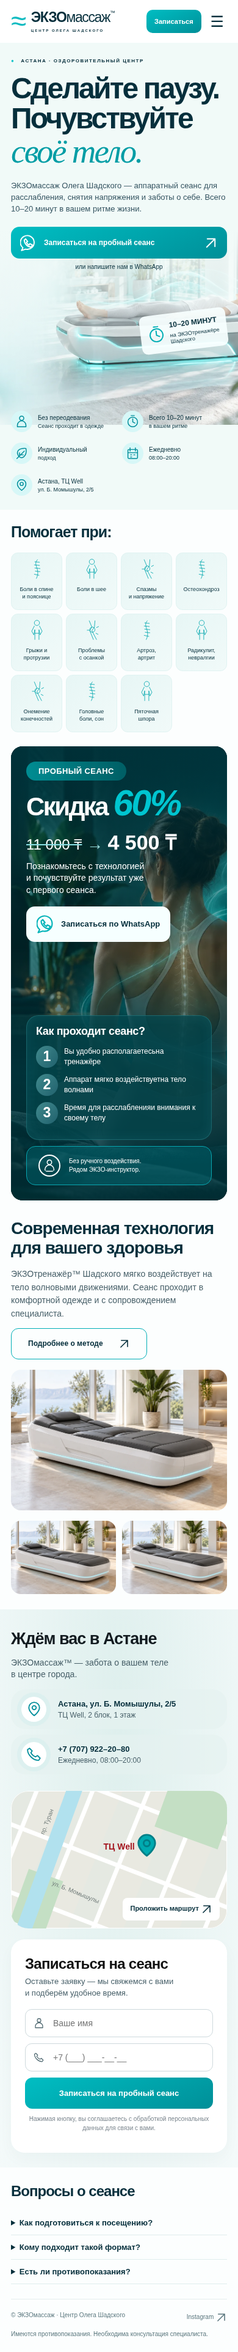
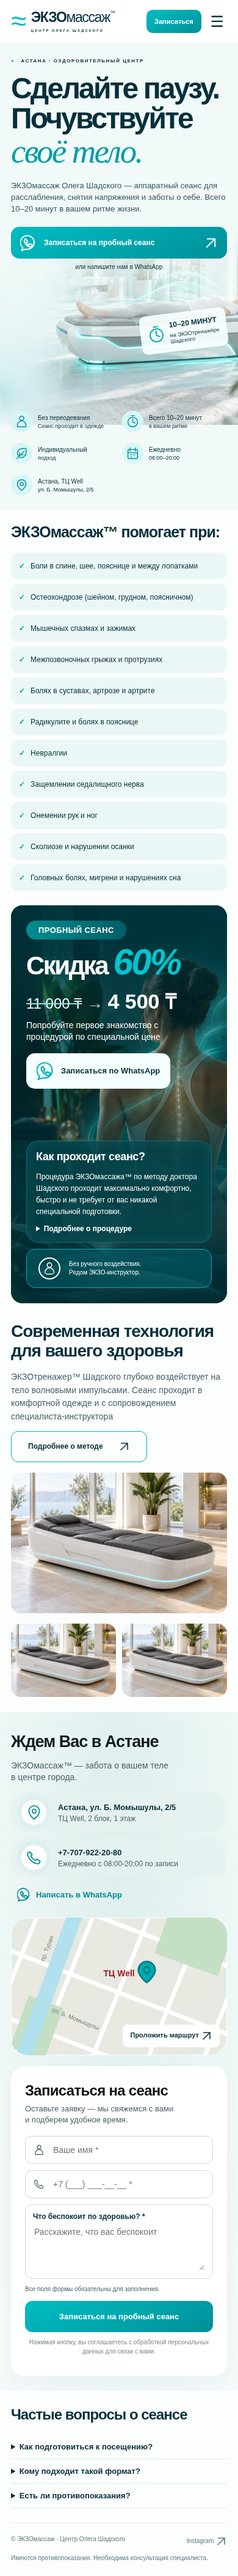
Update Ekzomassage copy and require health details for booking

diff --git a/ekzomassage/index.html b/ekzomassage/index.html
@@ -1,5 +1,5 @@
 <!doctype html>
-<html lang="ru"><head><meta charset="utf-8"><meta name="viewport" content="width=device-width,initial-scale=1"><title>ЭКЗОмассаж — сделайте паузу, почувствуйте своё тело</title><meta name="description" content="ЭКЗОмассаж Олега Шадского в Астане. Пробный сеанс — 4 500 ₸. ТЦ Well, Б. Момышулы, 2/5. Запишитесь на удобное время."><meta name="theme-color" content="#00aeb5"><link rel="stylesheet" href="styles.css?v=20261020"></head><body>
+<html lang="ru"><head><meta charset="utf-8"><meta name="viewport" content="width=device-width,initial-scale=1"><title>ЭКЗОмассаж — сделайте паузу, почувствуйте своё тело</title><meta name="description" content="ЭКЗОмассаж Олега Шадского в Астане. Пробный сеанс — 4 500 ₸. ТЦ Well, Б. Момышулы, 2/5. Запишитесь на удобное время."><meta name="theme-color" content="#00aeb5"><link rel="stylesheet" href="styles.css?v=20261021"></head><body>
 <svg class="svg-defs" xmlns="http://www.w3.org/2000/svg"><defs>
 <symbol id="i-arrow" viewBox="0 0 24 24"><path d="M5 19 19 5M6 5h13v13"/></symbol>
 <symbol id="i-phone" viewBox="0 0 24 24"><path d="m5 3 4 4-2 3c2 3 4 5 7 6l3-2 4 4-2 3C11 22 2 13 2 5Z"/></symbol>
@@ -13,25 +13,13 @@
 <symbol id="i-body" viewBox="0 0 32 40"><circle cx="16" cy="6" r="5"/><path d="M11 12 6 22l4 7 2-10v19m9-26 5 10-4 7-2-10v19M12 26h8"/></symbol>
 <symbol id="i-joint" viewBox="0 0 32 40"><path d="m11 2 5 12-4 7 7 17M22 2l-1 12-5 7 9 17M7 20h4m14-5 4-2m-5 13 4 2"/><circle cx="17" cy="19" r="5"/></symbol>
 </defs></svg>
-<header class="header"><div class="header-inner"><a class="brand" href="#" aria-label="ЭКЗОмассаж — главная"><span class="brand-symbol">≈</span><span><b>ЭКЗО</b>массаж<sup>™</sup><small>ЦЕНТР ОЛЕГА ШАДСКОГО</small></span></a><nav id="navigation" aria-label="Основная навигация"><a href="#about">О методе</a><a href="#indications">Показания</a><a href="#prices">Стоимость</a><a href="#questions">Вопросы</a><a href="#contacts">Контакты</a></nav><a class="header-phone" href="https://wa.me/77079222080" target="_blank" rel="noopener"><svg><use href="#i-wa"/></svg><span><b>+7 (707) 922–20–80</b><small>Написать в WhatsApp</small></span></a><a class="button header-book" href="#booking">Записаться</a><button class="menu" aria-label="Открыть меню" aria-controls="navigation" aria-expanded="false">☰</button></div></header>
+<header class="header"><div class="header-inner"><a class="brand" href="#" aria-label="ЭКЗОмассаж — главная"><span class="brand-symbol">≈</span><span><b>ЭКЗО</b>массаж<sup>™</sup><small>ЦЕНТР ОЛЕГА ШАДСКОГО</small></span></a><nav id="navigation" aria-label="Основная навигация"><a href="#about">О методе</a><a href="#indications">Показания</a><a href="#prices">Стоимость</a><a href="#questions">Вопросы</a><a href="#contacts">Контакты</a></nav><a class="header-phone" href="tel:+77079222080"><svg><use href="#i-wa"/></svg><span><b>+7-707-922-20-80</b><small>Позвонить в центр</small></span></a><a class="button header-book" href="#booking">Записаться</a><button class="menu" aria-label="Открыть меню" aria-controls="navigation" aria-expanded="false">☰</button></div></header>
 <main>
 <section class="hero"><div class="container hero-inner"><div class="hero-copy"><p class="eyebrow">АСТАНА · ОЗДОРОВИТЕЛЬНЫЙ ЦЕНТР</p><h1>Сделайте паузу.<br>Почувствуйте<br><em>своё тело.</em></h1><p class="hero-description">ЭКЗОмассаж Олега Шадского — аппаратный сеанс<br class="desktop"> для расслабления, снятия напряжения и заботы о себе.<br class="desktop"> Всего 10–20 минут в вашем ритме жизни.</p><a class="button hero-button" href="https://wa.me/77079222080?text=Здравствуйте!%20Хочу%20записаться%20на%20пробный%20сеанс." target="_blank" rel="noopener"><svg><use href="#i-wa"/></svg>Записаться на пробный сеанс <span><svg class="arrow-icon" aria-hidden="true"><use href="#i-arrow"/></svg></span></a><p class="button-note">или напишите нам в WhatsApp</p></div><div class="hero-badge">ТЕХНОЛОГИЯ<br>БЕРЕЖНОГО<br>ПОДХОДА</div><div class="time-badge"><svg><use href="#i-clock"/></svg><div><b>10–20 МИНУТ</b><span>на ЭКЗОтренажёре<br>Шадского</span></div></div>
 <div class="benefits"><div><i><svg><use href="#i-person"/></svg></i><span>Без переодевания<small>Сеанс проходит в одежде</small></span></div><div><i><svg><use href="#i-clock"/></svg></i><span>Всего 10–20 минут<small>в вашем ритме</small></span></div><div><i><svg><use href="#i-leaf"/></svg></i><span>Индивидуальный<small>подход</small></span></div><div><i><svg><use href="#i-calendar"/></svg></i><span>Ежедневно<small>08:00–20:00</small></span></div><div><i><svg><use href="#i-pin"/></svg></i><span>Астана, ТЦ Well<small>ул. Б. Момышулы, 2/5</small></span></div></div></div></section>
-<section class="container indications" id="indications"><h2>Помогает при:</h2><div class="indication-grid">
-<div class="indication"><svg aria-hidden="true"><use href="#i-spine"/></svg><span>Боли в спине<br>и пояснице</span></div>
-<div class="indication"><svg aria-hidden="true"><use href="#i-body"/></svg><span>Боли в шее</span></div>
-<div class="indication"><svg aria-hidden="true"><use href="#i-joint"/></svg><span>Спазмы<br>и напряжение</span></div>
-<div class="indication"><svg aria-hidden="true"><use href="#i-spine"/></svg><span>Остеохондроз</span></div>
-<div class="indication"><svg aria-hidden="true"><use href="#i-body"/></svg><span>Грыжи и<br>протрузии</span></div>
-<div class="indication"><svg aria-hidden="true"><use href="#i-joint"/></svg><span>Проблемы<br>с осанкой</span></div>
-<div class="indication"><svg aria-hidden="true"><use href="#i-spine"/></svg><span>Артроз,<br>артрит</span></div>
-<div class="indication"><svg aria-hidden="true"><use href="#i-body"/></svg><span>Радикулит,<br>невралгии</span></div>
-<div class="indication"><svg aria-hidden="true"><use href="#i-joint"/></svg><span>Онемение<br>конечностей</span></div>
-<div class="indication"><svg aria-hidden="true"><use href="#i-spine"/></svg><span>Головные<br>боли, сон</span></div>
-<div class="indication"><svg aria-hidden="true"><use href="#i-body"/></svg><span>Пяточная<br>шпора</span></div>
-</div></section>
-<section class="container offer" id="prices"><div class="offer-copy"><span class="pill">ПРОБНЫЙ СЕАНС</span><h2>Скидка <em>60%</em></h2><p class="price"><del>11 000 ₸</del> <span>→</span> <b>4 500 ₸</b></p><p>Познакомьтесь с технологией<br>и почувствуйте результат уже<br>с первого сеанса.</p><a class="button light" href="https://wa.me/77079222080?text=Здравствуйте!%20Хочу%20пробный%20сеанс%20за%204500%20тенге." target="_blank" rel="noopener"><svg><use href="#i-wa"/></svg>Записаться по WhatsApp</a></div><div class="offer-person" aria-hidden="true"></div><div class="offer-process"><div class="process-card"><h3>Как проходит сеанс?</h3><ol><li>Вы удобно располагаетесь<br>на тренажёре</li><li>Аппарат мягко воздействует<br>на тело волнами</li><li>Время для расслабления<br>и внимания к своему телу</li></ol></div><p class="process-note"><svg><use href="#i-person"/></svg><span>Без ручного воздействия.<br>Рядом ЭКЗО-инструктор.</span></p></div></section>
-<section class="container technology" id="about"><div><h2>Современная технология<br>для вашего здоровья</h2><p>ЭКЗОтренажёр™ Шадского мягко воздействует на тело волновыми движениями. Сеанс проходит в комфортной одежде и с сопровождением специалиста.</p><a class="button outline" href="#questions">Подробнее о методе <span><svg class="arrow-icon" aria-hidden="true"><use href="#i-arrow"/></svg></span></a></div><div class="tech-main"><img src="images/device.webp" alt="Иллюстрация аппарата для сеанса ЭКЗОмассажа" loading="lazy"></div><div class="tech-details"><img src="images/device.webp" alt="Детали платформы аппарата" loading="lazy"><img src="images/device.webp" alt="Оборудование оздоровительного центра" loading="lazy"></div></section>
-<section class="contacts" id="contacts"><div class="container contacts-grid"><div class="contact-info"><h2>Ждём вас в Астане</h2><p>ЭКЗОмассаж™ — забота о вашем теле<br>в центре города.</p><a class="contact-row" href="https://www.google.com/maps/search/?api=1&query=Астана+Бауыржан+Момышулы+2%2F5+ТЦ+Well" target="_blank" rel="noopener"><i><svg><use href="#i-pin"/></svg></i><span><b>Астана, ул. Б. Момышулы, 2/5</b><small>ТЦ Well, 2 блок, 1 этаж</small></span></a><a class="contact-row" href="tel:+77079222080"><i><svg><use href="#i-phone"/></svg></i><span><b>+7 (707) 922–20–80</b><small>Ежедневно, 08:00–20:00</small></span></a></div><a class="map" href="https://www.google.com/maps/search/?api=1&query=Астана+Бауыржан+Момышулы+2%2F5+ТЦ+Well" target="_blank" rel="noopener" aria-label="ТЦ Well: открыть маршрут на карте"><div class="map-park park-one"></div><div class="map-park park-two"></div><div class="map-river"></div><span class="street street-one">ул. Б. Момышулы</span><span class="street street-two">пр. Туран</span><span class="map-pin"><svg><use href="#i-pin"/></svg><b>ТЦ Well</b></span><span class="map-link">Проложить маршрут <svg class="arrow-icon" aria-hidden="true"><use href="#i-arrow"/></svg></span></a><form id="booking" class="booking"><h2>Записаться на сеанс</h2><p>Оставьте заявку — мы свяжемся с вами<br>и подберём удобное время.</p><label><span class="sr-only">Ваше имя</span><svg><use href="#i-person"/></svg><input name="name" autocomplete="name" placeholder="Ваше имя" maxlength="100" required></label><label><span class="sr-only">Телефон</span><svg><use href="#i-phone"/></svg><input name="phone" type="tel" autocomplete="tel" placeholder="+7 (___) ___-__-__" maxlength="24" required></label><button class="button" type="submit">Записаться на пробный сеанс</button><small>Нажимая кнопку, вы соглашаетесь с обработкой персональных данных для связи с вами.</small><p class="form-status" role="status"></p></form></div></section>
-<section class="container faq" id="questions"><h2>Вопросы о сеансе</h2><details><summary>Как подготовиться к посещению?</summary><p>Выберите комфортную одежду. Перед сеансом уберите телефон, часы, ключи, ремень и металлические аксессуары. Обсудите самочувствие со специалистом.</p></details><details><summary>Кому подходит такой формат?</summary><p>Возможность посещения определяется индивидуально. При боли и других жалобах сначала выясните их причину с врачом. ЭКЗОмассаж не заменяет диагностику и назначенное лечение.</p></details><details><summary>Есть ли противопоказания?</summary><p>Да. В том числе беременность, кардиостимулятор, острые инфекции и кровотечения. Сообщите специалисту о хронических заболеваниях, недавних операциях и текущем самочувствии до записи.</p></details></section>
-</main><footer class="container footer"><span>© ЭКЗОмассаж · Центр Олега Шадского</span><a href="https://www.instagram.com/ekzomassage.kz/" target="_blank" rel="noopener">Instagram <svg class="arrow-icon" aria-hidden="true"><use href="#i-arrow"/></svg></a><span>Имеются противопоказания. Необходима консультация специалиста.</span></footer><script src="app.js?v=20261020"></script></body></html>
+<section class="container indications" id="indications"><h2>ЭКЗОмассаж™ помогает при:</h2><ul class="indication-list"><li>Боли в спине, шее, пояснице и между лопатками</li><li>Остеохондрозе (шейном, грудном, поясничном)</li><li>Мышечных спазмах и зажимах</li><li>Межпозвоночных грыжах и протрузиях</li><li>Болях в суставах, артрозе и артрите</li><li>Радикулите и болях в пояснице</li><li>Невралгии</li><li>Защемлении седалищного нерва</li><li>Онемении рук и ног</li><li>Сколиозе и нарушении осанки</li><li>Головных болях, мигрени и нарушениях сна</li></ul></section>
+<section class="container offer" id="prices"><div class="offer-copy"><span class="pill">ПРОБНЫЙ СЕАНС</span><h2>Скидка <em>60%</em></h2><p class="price"><del>11 000 ₸</del> <span>→</span> <b>4 500 ₸</b></p><p>Попробуйте первое знакомство с процедурой по специальной цене</p><a class="button light" href="https://wa.me/77079222080?text=Здравствуйте!%20Хочу%20пробный%20сеанс%20за%204500%20тенге." target="_blank" rel="noopener"><svg><use href="#i-wa"/></svg>Записаться по WhatsApp</a></div><div class="offer-person" aria-hidden="true"></div><div class="offer-process"><div class="process-card"><h3>Как проходит сеанс?</h3><p>Процедура ЭКЗОмассажа™ по методу доктора Шадского проходит максимально комфортно, быстро и не требует от вас никакой специальной подготовки.</p><details class="process-more"><summary>Подробнее о процедуре</summary><p>Когда вы приедете в студию, специалист-инструктор сначала проведет с вами короткую беседу, чтобы узнать о ваших пожеланиях, беспокоящих зонах и состоянии здоровья. После этого вам не придется раздеваться, Вы просто снимаете обувь, убираете из карманов ключи, телефон и другие мелкие предметы, а затем удобно укладываетесь на экзотренажер прямо в своей обычной одежде.</p><p>Во время 10-20 минутного сеанса вы спокойно отдыхаете, пока аппарат воздействует на тело импульсными волнами.</p></details></div><p class="process-note"><svg><use href="#i-person"/></svg><span>Без ручного воздействия.<br>Рядом ЭКЗО-инструктор.</span></p></div></section>
+<section class="container technology" id="about"><div><h2>Современная технология<br>для вашего здоровья</h2><p>ЭКЗОтренажер™ Шадского глубоко воздействует на тело волновыми импульсами. Сеанс проходит в комфортной одежде и с сопровождением специалиста-инструктора</p><a class="button outline" href="#questions">Подробнее о методе <span><svg class="arrow-icon" aria-hidden="true"><use href="#i-arrow"/></svg></span></a></div><div class="tech-main"><img src="images/device.webp" alt="Иллюстрация аппарата для сеанса ЭКЗОмассажа" loading="lazy"></div><div class="tech-details"><img src="images/device.webp" alt="Детали платформы аппарата" loading="lazy"><img src="images/device.webp" alt="Оборудование оздоровительного центра" loading="lazy"></div></section>
+<section class="contacts" id="contacts"><div class="container contacts-grid"><div class="contact-info"><h2>Ждем Вас в Астане</h2><p>ЭКЗОмассаж™ — забота о вашем теле<br>в центре города.</p><a class="contact-row" href="https://www.google.com/maps/search/?api=1&query=Астана+Бауыржан+Момышулы+2%2F5+ТЦ+Well" target="_blank" rel="noopener"><i><svg><use href="#i-pin"/></svg></i><span><b>Астана, ул. Б. Момышулы, 2/5</b><small>ТЦ Well, 2 блок, 1 этаж</small></span></a><a class="contact-row" href="tel:+77079222080"><i><svg><use href="#i-phone"/></svg></i><span><b>+7-707-922-20-80</b><small>Ежедневно с 08:00-20:00 по записи</small></span></a><a class="contact-whatsapp" href="https://wa.me/77079222080" target="_blank" rel="noopener"><svg><use href="#i-wa"/></svg> Написать в WhatsApp</a></div><a class="map" href="https://www.google.com/maps/search/?api=1&query=Астана+Бауыржан+Момышулы+2%2F5+ТЦ+Well" target="_blank" rel="noopener" aria-label="ТЦ Well: открыть маршрут на карте"><div class="map-park park-one"></div><div class="map-park park-two"></div><div class="map-river"></div><span class="street street-one">ул. Б. Момышулы</span><span class="street street-two">пр. Туран</span><span class="map-pin"><svg><use href="#i-pin"/></svg><b>ТЦ Well</b></span><span class="map-link">Проложить маршрут <svg class="arrow-icon" aria-hidden="true"><use href="#i-arrow"/></svg></span></a><form id="booking" class="booking"><h2>Записаться на сеанс</h2><p>Оставьте заявку — мы свяжемся с вами<br>и подберем удобное время.</p><label><span class="sr-only">Ваше имя</span><svg><use href="#i-person"/></svg><input name="name" autocomplete="name" placeholder="Ваше имя *" maxlength="100" required></label><label><span class="sr-only">Телефон</span><svg><use href="#i-phone"/></svg><input name="phone" type="tel" autocomplete="tel" placeholder="+7 (___) ___-__-__ *" maxlength="24" required></label><label class="health-label"><span>Что беспокоит по здоровью? *</span><textarea name="health" rows="3" maxlength="1500" required placeholder="Расскажите, что вас беспокоит" aria-describedby="required-fields"></textarea></label><p class="required-fields" id="required-fields">Все поля формы обязательны для заполнения.</p><button class="button" type="submit">Записаться на пробный сеанс</button><small>Нажимая кнопку, вы соглашаетесь с обработкой персональных данных для связи с вами.</small><p class="form-status" role="status"></p></form></div></section>
+<section class="container faq" id="questions"><h2>Частые вопросы о сеансе</h2><details><summary>Как подготовиться к посещению?</summary><p>Специальной сложной подготовки к сеансу не требуется. Вам достаточно выбрать комфортную, мягкую одежду, в которой будет удобно лежать на экзотренажере. Перед началом процедуры нужно будет только снять часы, ремень, убрать из карманов телефон, ключи, монеты и любые другие металлические предметы, которые могут магнититься. Также перед сеансом обязательно обсудите свое текущее самочувствие со специалистом студии.</p></details><details><summary>Кому подходит такой формат?</summary><p>ЭКЗОмассаж™ - это отличный способ глубокого расслабления и восстановления сил, который подходит большинству взрослых и детей от 5+ лет. Однако возможность посещения всегда определяется индивидуально. При боли и других жалобах сначала выясните их причину с врачом. ЭКЗОмассаж не заменяет диагностику и назначенное лечение.</p></details><details><summary>Есть ли противопоказания?</summary><p>Да. В том числе беременность, кардиостимулятор, острые инфекции и кровотечения. Сообщите специалисту о хронических заболеваниях, недавних операциях и текущем самочувствии до записи.</p></details></section>
+</main><footer class="container footer"><span>© ЭКЗОмассаж · Центр Олега Шадского</span><a href="https://www.instagram.com/ekzomassage.kz/" target="_blank" rel="noopener">Instagram <svg class="arrow-icon" aria-hidden="true"><use href="#i-arrow"/></svg></a><span>Имеются противопоказания. Необходима консультация специалиста.</span></footer><script src="app.js?v=20261021"></script></body></html>

diff --git a/ekzomassage/app.js b/ekzomassage/app.js
@@ -22,9 +22,11 @@ booking.addEventListener('submit', event => {
   const name = booking.elements.name.value.trim();
   const phone = booking.elements.phone.value.trim();
   if (!name) { booking.elements.name.setCustomValidity('Введите ваше имя'); booking.elements.name.reportValidity(); return; }
+  const health = booking.elements.health.value.trim();
+  if (!health) { booking.elements.health.setCustomValidity('Заполните поле «Что беспокоит по здоровью?»'); booking.elements.health.reportValidity(); return; }
   const digits = phone.replace(/\D/g, '');
   if (digits.length < 10 || digits.length > 15) { booking.elements.phone.setCustomValidity('Введите телефон полностью'); booking.elements.phone.reportValidity(); return; }
-  const message = `Здравствуйте! Хочу записаться на пробный сеанс ЭКЗОмассажа за 4 500 ₸.\nИмя: ${name}\nТелефон: ${phone}\nПодскажите удобное время.`;
+  const message = `Здравствуйте! Хочу записаться на пробный сеанс ЭКЗОмассажа за 4 500 ₸.\nИмя: ${name}\nТелефон: ${phone}\nЧто беспокоит по здоровью: ${health}\nПодскажите удобное время.`;
   const url = 'https://wa.me/77079222080?text=' + encodeURIComponent(message);
   window.open(url, '_blank', 'noopener,noreferrer');
   const status = booking.querySelector('.form-status');
@@ -33,4 +35,4 @@ booking.addEventListener('submit', event => {
   link.href = url; link.target = '_blank'; link.rel = 'noopener'; link.textContent = 'Открыть WhatsApp ↗';
   status.append(link);
 });
-booking.querySelectorAll('input').forEach(input => input.addEventListener('input', () => input.setCustomValidity('')));
+booking.querySelectorAll('input, textarea').forEach(input => input.addEventListener('input', () => input.setCustomValidity('')));

diff --git a/ekzomassage/styles.css b/ekzomassage/styles.css
@@ -12,3 +12,7 @@
 .hero-button span{display:flex}.hero-button span .arrow-icon{width:23px;height:23px}
 .tech-main{height:260px}
 @media(max-width:650px){.tech-main{height:230px}}
+/* Updated copy and required booking details. */
+.indication-list{display:grid;grid-template-columns:repeat(3,minmax(0,1fr));gap:10px 18px;list-style:none;padding:0;margin:0}.indication-list li{display:flex;align-items:flex-start;gap:9px;border-radius:12px;background:#eaf7f6;padding:13px;font-size:13px;line-height:1.5}.indication-list li:before{content:'✓';color:#009fa6;font-weight:800;flex-shrink:0}.process-card p{font-size:12px;line-height:1.6;margin:10px 0}.process-more summary{cursor:pointer;font-size:12px;font-weight:800}.offer-copy>p:not(.price){max-width:290px}.booking label.health-label{display:block;height:auto;padding:12px}.health-label>span{display:block;font-size:12px;margin-bottom:8px;font-weight:700}.booking textarea{display:block;resize:vertical;min-height:74px;width:100%;border:0;font:inherit;font-size:12px;background:transparent;color:var(--ink)}.booking .required-fields{font-size:10px;color:#49616a;margin:4px 0 12px}.contact-whatsapp{display:inline-flex;align-items:center;gap:8px;font-size:13px;font-weight:800;color:#008a91;padding:8px 10px}.contact-whatsapp svg{width:23px;height:23px}
+@media(max-width:950px){.indication-list{grid-template-columns:repeat(2,minmax(0,1fr))}}
+@media(max-width:650px){.indication-list{grid-template-columns:1fr;gap:7px}.indication-list li{font-size:12px}.booking textarea{font-size:14px}.offer-person{height:85px}}

diff --git a/ekzomassage/README.md b/ekzomassage/README.md
@@ -25,3 +25,9 @@ ekzomassage/
 Цена 4 500 ₸, старая цена 11 000 ₸ и округлённая скидка 60% перенесены из образца. Часы 08:00–20:00, адрес: Астана, Б. Момышулы, 2/5, ТЦ Well, 2 блок, 1 этаж. Тексты редактируются в index.html. Перед запуском подтвердите цены и адрес центра.
 
 Шрифт Manrope загружается из Google Fonts; резервный Arial. Локальный запуск из корня репозитория: python3 -m http.server 8020, затем /ekzomassage/.
+
+## Правки по сообщению от 20 октября
+
+Обновлены 11 пунктов «ЭКЗОмассаж™ помогает при», описание сеанса (подробности раскрываются), технология, цена, адресный блок, график и FAQ. Телефон открывает звонок; рядом отдельная ссылка WhatsApp. Имя, телефон и поле «Что беспокоит по здоровью?» обязательны; сведения подставляются в WhatsApp. Сообщения не сохраняются сайтом и не отправляются автоматически.
+
+В пунктах 9 и 13 исходное сообщение обрывается на «специа…» и «конкретные с…». Вставлены законченные предложения; полный текст нужно предоставить отдельно. Новые фото и видео в сообщении отсутствуют: текущие иллюстрации сохранены, видео пока не добавлено. Для замены фото передайте файл для images/device.webp, для видео — файл или ссылку.
